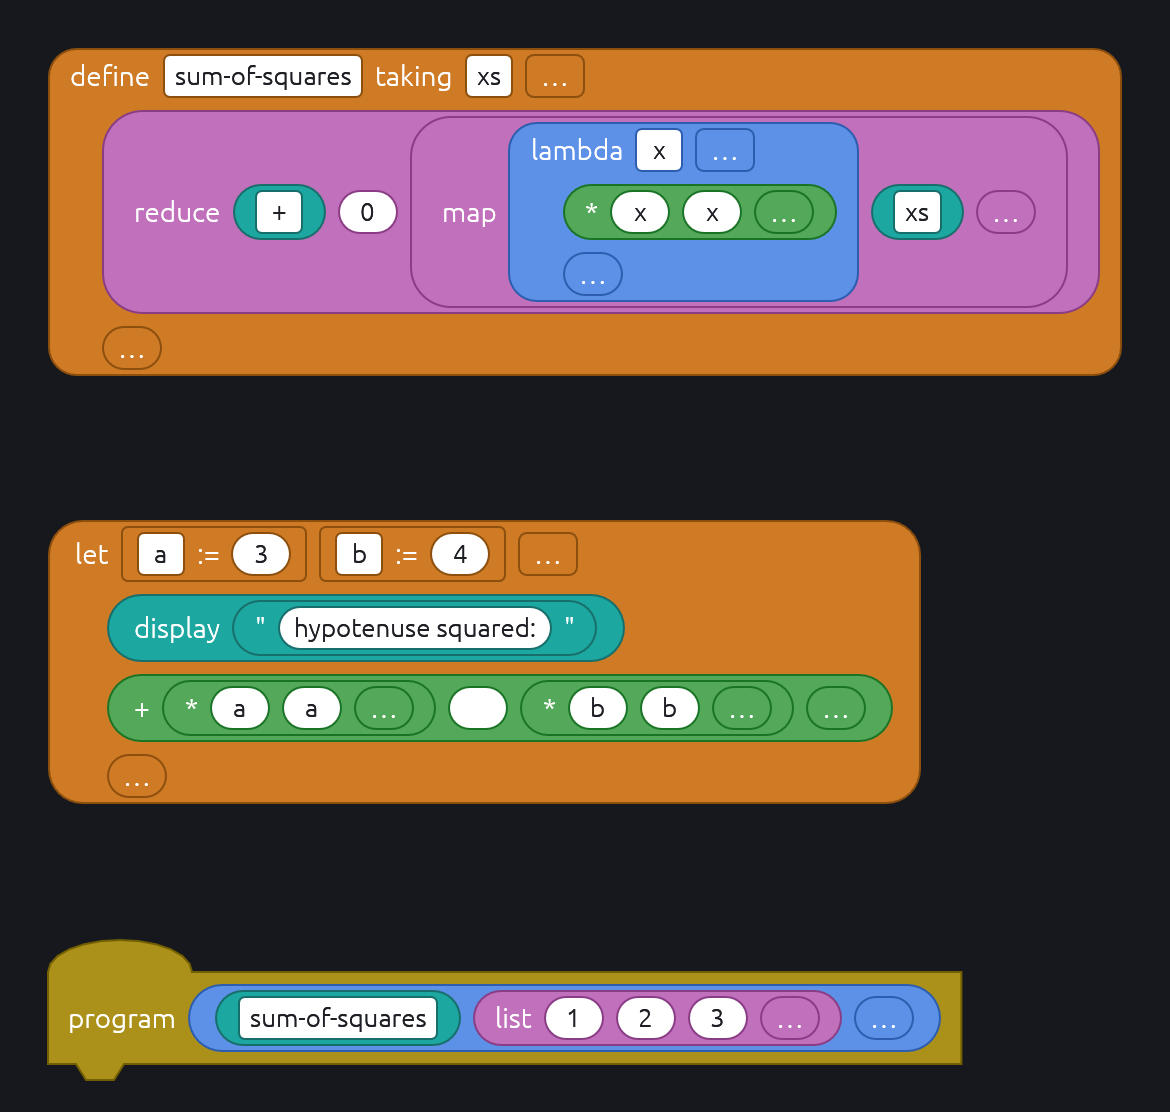
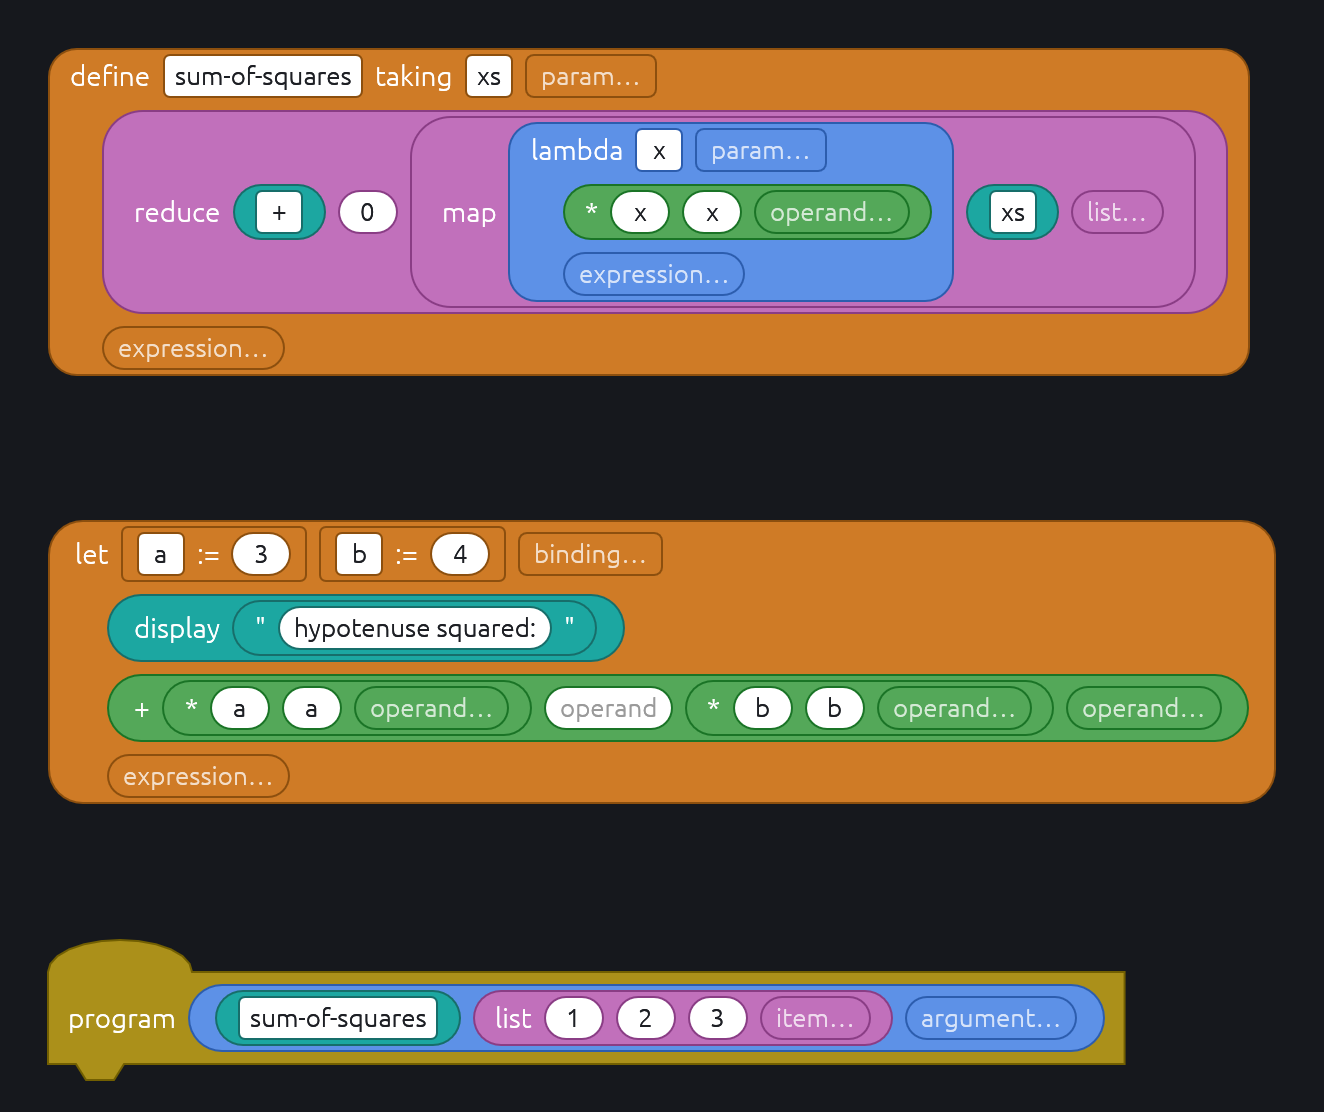
Gray hints in blank slots
A blank slot shows its input's name, or the block's hints text for it;
a list's holes share the list's hint and its empty slot shows it with an
ellipsis. Blank slots are sized to fit their hint.

Claude-Session: https://claude.ai/code/session_01MQzhmojUrrEnZEeBToTXNe

diff --git a/crates/block-parse-gui/src/layout.rs b/crates/block-parse-gui/src/layout.rs
@@ -2,7 +2,7 @@
 //! fake. Drawing, hit-testing and snapping all read the one scene.
 
 use block_parse::edit::Target;
-use block_parse::language::{BlockDef, BlockKind, BlockLayout, LiteralKind, Part, Shape};
+use block_parse::language::{BlockDef, BlockKind, BlockLayout, ListDef, LiteralKind, Part, Shape};
 use block_parse::program::{Block, BlockId, Input, Program, Stack};
 use block_parse::Language;
 use egui::{Pos2, Rect, Vec2, pos2, vec2};
@@ -33,6 +33,11 @@ const PALETTE_MARGIN: f32 = 14.0;
 const PALETTE_GAP: f32 = 10.0;
 const PALETTE_HEADING: f32 = 28.0;
 const GRID_GAP: f32 = 24.0;
+
+/// What a list's empty slot shows.
+pub fn append_text(hint: &str) -> String {
+    format!("{hint}…")
+}
 
 /// Canvas units.
 pub trait Measure {
@@ -109,6 +114,8 @@ pub struct PlacedSlot {
     /// The index in a list; its length for the empty slot after the items.
     pub item: Option<usize>,
     pub ty: String,
+    /// Drawn in gray while the slot is blank.
+    pub hint: String,
     pub rect: Rect,
     pub shape: Shape,
     /// The owning block's, for empty slots and edges.
@@ -456,7 +463,7 @@ impl Layout<'_> {
                     continue;
                 }
                 Part::Input(_) => self.item(block, part).into_iter().collect(),
-                Part::List(list) => self.list(block, &list.name, &list.ty),
+                Part::List(list) => self.list(block, list),
                 Part::Branch(_) => continue,
             };
             if inputs < inline {
@@ -574,7 +581,7 @@ impl Layout<'_> {
                 y += height;
                 after_branch = true;
             } else if let Part::List(list) = part {
-                row.extend(self.list(block, &list.name, &list.ty));
+                row.extend(self.list(block, list));
                 after_branch = false;
             } else if let Some(item) = self.item(block, part) {
                 row.push(item);
@@ -608,31 +615,41 @@ impl Layout<'_> {
                 width: self.measure.text_width(text, Font::Label),
                 text: text.clone(),
             }),
-            Part::Input(input) => Some(self.slot(block, &input.name, &input.ty, None, block.inputs.get(&input.name))),
+            Part::Input(input) => Some(self.slot(
+                block,
+                (&input.name, &input.ty, &input.hint),
+                None,
+                block.inputs.get(&input.name),
+            )),
             Part::List(_) | Part::Branch(_) => None,
         }
     }
 
     /// The list's items, then the empty slot that appends to it.
-    fn list(&self, block: &Block, name: &str, ty: &str) -> Vec<Item> {
-        let stored = block.lists.get(name).map(Vec::as_slice).unwrap_or(&[]);
+    fn list(&self, block: &Block, list: &ListDef) -> Vec<Item> {
+        let stored = block.lists.get(&list.name).map(Vec::as_slice).unwrap_or(&[]);
+        let names = (list.name.as_str(), list.ty.as_str(), list.hint.as_str());
         let mut items: Vec<Item> = stored
             .iter()
             .enumerate()
-            .map(|(index, input)| self.slot(block, name, ty, Some(index), Some(input)))
+            .map(|(index, input)| self.slot(block, names, Some(index), Some(input)))
             .collect();
+        let width = self.measure.text_width(&append_text(&list.hint), Font::Literal) + 16.0;
         items.push(Item::Slot {
-            input: name.to_owned(),
+            input: list.name.clone(),
             item: Some(stored.len()),
-            ty: ty.to_owned(),
-            shape: self.language.ty(ty).map_or(Shape::Round, |ty| ty.shape),
-            size: vec2(APPEND_WIDTH, SLOT_HEIGHT),
+            ty: list.ty.clone(),
+            hint: list.hint.clone(),
+            shape: self.language.ty(&list.ty).map_or(Shape::Round, |ty| ty.shape),
+            size: vec2(width.max(APPEND_WIDTH), SLOT_HEIGHT),
             content: LaidContent::Append,
         });
         items
     }
 
-    fn slot(&self, block: &Block, name: &str, ty_name: &str, item: Option<usize>, stored: Option<&Input>) -> Item {
+    /// `names` is the input's name, type and hint.
+    fn slot(&self, block: &Block, names: (&str, &str, &str), item: Option<usize>, stored: Option<&Input>) -> Item {
+        let (name, ty_name, hint) = names;
         let ty = self.language.ty(ty_name);
         let shape = ty.map_or(Shape::Round, |ty| ty.shape);
         let kind = ty.map_or(LiteralKind::None, |ty| ty.literal.clone());
@@ -646,6 +663,7 @@ impl Layout<'_> {
                 input: name.to_owned(),
                 item,
                 ty: ty_name.to_owned(),
+                hint: hint.to_owned(),
                 shape,
                 size: laid.size,
                 content: LaidContent::Plugged(Box::new(laid)),
@@ -655,10 +673,11 @@ impl Layout<'_> {
         let text = stored
             .and_then(|stored| stored.literal.clone())
             .unwrap_or_default();
-        let text_width = self.measure.text_width(&text, Font::Literal);
+        let shown = if text.is_empty() { hint } else { &text };
+        let text_width = self.measure.text_width(shown, Font::Literal);
         let width = match (&kind, shape) {
-            (LiteralKind::None, Shape::Hexagon) => 40.0,
-            (LiteralKind::None, _) => 32.0,
+            (LiteralKind::None, Shape::Hexagon) => (text_width + SLOT_HEIGHT + 4.0).max(40.0),
+            (LiteralKind::None, _) => (text_width + 16.0).max(32.0),
             (LiteralKind::Bool, _) => 38.0,
             (LiteralKind::Choice(_), _) => text_width + 30.0,
             (_, Shape::Hexagon) => (text_width + SLOT_HEIGHT + 4.0).max(40.0),
@@ -680,6 +699,7 @@ impl Layout<'_> {
             input: name.to_owned(),
             item,
             ty: ty_name.to_owned(),
+            hint: hint.to_owned(),
             shape,
             size: vec2(width, SLOT_HEIGHT),
             content,
@@ -707,6 +727,7 @@ struct Laid {
 struct LaidSlot {
     input: String,
     item: Option<usize>,
+    hint: String,
     ty: String,
     rect: Rect,
     shape: Shape,
@@ -739,6 +760,7 @@ enum Item {
         input: String,
         item: Option<usize>,
         ty: String,
+        hint: String,
         shape: Shape,
         size: Vec2,
         content: LaidContent,
@@ -795,6 +817,7 @@ impl Laid {
                     input,
                     item,
                     ty,
+                    hint,
                     shape,
                     content,
                     ..
@@ -802,6 +825,7 @@ impl Laid {
                     self.slots.push(LaidSlot {
                         input,
                         item,
+                        hint,
                         ty,
                         rect: Rect::from_min_size(pos2(x, center - size.y / 2.0), size),
                         shape,
@@ -911,6 +935,7 @@ fn place(laid: &Laid, origin: Pos2, depth: u16, scene: &mut Scene) {
             input: slot.input.clone(),
             item: slot.item,
             ty: slot.ty.clone(),
+            hint: slot.hint.clone(),
             rect: slot_rect,
             shape: slot.shape,
             swatch: laid.swatch,
@@ -1127,6 +1152,22 @@ mod tests {
         assert_eq!(add.slots[3].content, SlotContent::Append);
         assert!(add.slots.windows(2).all(|pair| pair[0].rect.max.x < pair[1].rect.min.x), "inline");
         assert!(!add.slots[0].is_field(), "list items are not edited in place yet");
+    }
+
+    #[test]
+    fn a_blank_slot_is_sized_for_its_hint() {
+        let language = scheme();
+        let (mut program, ids) = with_stack(&language, &["add"]);
+        let lists = &mut program.find_mut(ids[0]).unwrap().lists;
+        lists.insert("args".into(), vec![literal("1"), Default::default()]);
+        let scene = scene_of(&language, &program);
+        let add = placed(&scene, ids[0]);
+
+        assert!(add.slots.iter().all(|slot| slot.hint == "operand"));
+        let width = |index: usize| add.slots[index].rect.width();
+        assert!((width(1) - (7.0 * 7.0 + 16.0)).abs() < 1e-3, "the hole fits `operand`");
+        assert!(width(0) < width(1), "a filled slot fits its text");
+        assert!((width(2) - (7.0 * 8.0 + 16.0)).abs() < 1e-3, "the empty slot fits `operand…`");
     }
 
     #[test]

diff --git a/crates/block-parse/src/language.rs b/crates/block-parse/src/language.rs
@@ -91,6 +91,10 @@ pub struct BlockConfig {
     pub spec: String,
     #[serde(default)]
     pub layout: BlockLayout,
+    /// Shown in gray in a blank slot, by input or list name; the name itself
+    /// otherwise. Free text.
+    #[serde(default)]
+    pub hints: BTreeMap<String, String>,
     #[serde(default)]
     pub tags: Vec<String>,
     #[serde(default)]
@@ -269,6 +273,8 @@ pub struct InputDef {
     /// Source text, already validated: the spec's default, else the literal
     /// kind's blank. `None` only for types that take no literal.
     pub default: Option<String>,
+    /// For a blank slot.
+    pub hint: String,
 }
 
 /// Any number of inputs of one type under one name. Starts empty: a list
@@ -279,6 +285,8 @@ pub struct ListDef {
     pub ty: String,
     /// 0 for `*`, 1 for `+`.
     pub min: usize,
+    /// For each blank item and the empty slot.
+    pub hint: String,
 }
 
 #[derive(Debug)]
@@ -606,7 +614,8 @@ impl LanguageConfig {
                                 Arity::Any => 0,
                                 Arity::AtLeastOne => 1,
                             };
-                            parts.push(Part::List(ListDef { name, ty, min }));
+                            let hint = config.hints.get(&name).cloned().unwrap_or_else(|| name.clone());
+                            parts.push(Part::List(ListDef { name, ty, min, hint }));
                             continue;
                         }
                         let default = match types.get(&ty) {
@@ -631,8 +640,19 @@ impl LanguageConfig {
                                 }
                             },
                         };
-                        parts.push(Part::Input(InputDef { name, ty, default }));
+                        let hint = config.hints.get(&name).cloned().unwrap_or_else(|| name.clone());
+                        parts.push(Part::Input(InputDef { name, ty, default, hint }));
                     }
+                }
+            }
+
+            for name in config.hints.keys() {
+                if !parts.iter().any(|part| match part {
+                    Part::Input(input) => &input.name == name,
+                    Part::List(list) => &list.name == name,
+                    Part::Label(_) | Part::Branch(_) => false,
+                }) {
+                    problem(at, format!("hint for `{name}`, which is no input or list"));
                 }
             }
 
@@ -816,6 +836,26 @@ mod tests {
         assert_eq!(add.list("more").map(|list| list.min), Some(1));
         assert_eq!(add.layout, BlockLayout::Body(1));
         assert_eq!(language.block("if").unwrap().layout, BlockLayout::Inline);
+    }
+
+    #[test]
+    fn hints_default_to_the_input_name() {
+        let language = compile(&MINIMAL.replace(
+            r#"spec: "{a:number=1} + {b:number}""#,
+            r#"spec: "{a:number=1} + {b:number} {rest:number*}", hints: {"b": "a number", "rest": "operand"}"#,
+        ))
+        .unwrap();
+        let add = language.block("add").unwrap();
+        assert_eq!(add.input("a").unwrap().hint, "a");
+        assert_eq!(add.input("b").unwrap().hint, "a number");
+        assert_eq!(add.list("rest").unwrap().hint, "operand");
+
+        let problems = compile(&MINIMAL.replace(
+            r#"spec: "{a:number=1} + {b:number}""#,
+            r#"spec: "{a:number=1} + {b:number}", hints: {"c": "nothing"}"#,
+        ))
+        .unwrap_err();
+        assert!(problems[0].contains("`c`"), "{problems:#?}");
     }
 
     #[test]

diff --git a/crates/block-parse-gui/src/paint.rs b/crates/block-parse-gui/src/paint.rs
@@ -12,7 +12,7 @@ use egui::{Align2, Color32, CornerRadius, FontId, Galley, Painter, Pos2, Rect, S
 
 use crate::bubble::{self, Bubble};
 use crate::interact::SnapMark;
-use crate::layout::{Form, LABEL_SIZE, LITERAL_SIZE, PlacedBlock, PlacedSlot, Scene, Section, SlotContent};
+use crate::layout::{Form, LABEL_SIZE, LITERAL_SIZE, append_text, PlacedBlock, PlacedSlot, Scene, Section, SlotContent};
 use crate::shape::{self, TopEdge};
 use crate::theme::Theme;
 
@@ -267,12 +267,12 @@ fn paint_slot(painter: &Painter, slot: &PlacedSlot, t: Transform, theme: &Theme,
         SlotContent::Plugged(_) => return,
         SlotContent::Empty => {
             fill(painter, slot.shape, rect, rect.height(), slot.swatch.shadow, edge, t.zoom);
+            hint(painter, rect, &slot.hint, slot.swatch.ink.gamma_multiply(0.6), t.zoom);
             return;
         }
         SlotContent::Append => {
             outline(painter, slot.shape, rect.shrink(edge.width), rect.height(), edge, t.zoom);
-            let font = FontId::proportional(LABEL_SIZE * t.zoom);
-            painter.text(rect.center(), Align2::CENTER_CENTER, "…", font, slot.swatch.ink);
+            hint(painter, rect, &append_text(&slot.hint), slot.swatch.ink.gamma_multiply(0.75), t.zoom);
             return;
         }
         SlotContent::Literal { kind, text, error } => (kind, text, error),
@@ -286,6 +286,11 @@ fn paint_slot(painter: &Painter, slot: &PlacedSlot, t: Transform, theme: &Theme,
     fill(painter, slot.shape, rect, rect.height(), background, edge, t.zoom);
     if error.is_some() {
         outline(painter, slot.shape, rect, rect.height(), Stroke::new(2.0 * t.zoom, theme.error), t.zoom);
+    }
+    // Under a live field too: the field is transparent and draws no hint.
+    if text.is_empty() && !matches!(kind, LiteralKind::Bool | LiteralKind::Choice(_)) {
+        hint(painter, rect, &slot.hint, theme.placeholder, t.zoom);
+        return;
     }
     if live && slot.is_field() && !matches!(kind, LiteralKind::Choice(_)) {
         return;
@@ -316,6 +321,11 @@ fn paint_slot(painter: &Painter, slot: &PlacedSlot, t: Transform, theme: &Theme,
             painter.text(rect.center(), Align2::CENTER_CENTER, text, font, theme.literal_ink);
         }
     }
+}
+
+fn hint(painter: &Painter, rect: Rect, text: &str, color: Color32, zoom: f32) {
+    let font = FontId::proportional(LITERAL_SIZE * zoom);
+    painter.text(rect.center(), Align2::CENTER_CENTER, text, font, color);
 }
 
 /// Screen-space convex pieces as one mesh, so shared edges leave no seams.

diff --git a/crates/block-parse-gui/src/theme.rs b/crates/block-parse-gui/src/theme.rs
@@ -28,6 +28,8 @@ pub struct Theme {
     pub warning: Color32,
     pub literal_fill: Color32,
     pub literal_ink: Color32,
+    /// A blank field's hint.
+    pub placeholder: Color32,
 }
 
 impl Default for Theme {
@@ -50,6 +52,7 @@ impl Default for Theme {
             warning: Color32::from_rgb(0xf5, 0xa5, 0x24),
             literal_fill: Color32::WHITE,
             literal_ink: Color32::from_rgb(0x1d, 0x1f, 0x24),
+            placeholder: Color32::from_gray(0x9a),
         }
     }
 }

diff --git a/documentation/03-variadic.md b/documentation/03-variadic.md
@@ -124,8 +124,21 @@ below and its bottom corners cut at the same angle. Both stay convex. The ends
 stop growing at `MAX_END` (40 units), so a one-row block holding a tall one
 does not swell into a huge pill.
 
-A list's empty slot is drawn as an outline in the type's shape with `…`
-inside.
+## Hints
+
+A blank slot shows a hint in gray: the input's name, or free text from the
+block's `hints`, keyed by input or list name:
+
+```ron
+(id: "add", kind: Reporter("datum"), spec: "+ {args:datum*}", hints: {"args": "operand"}),
+```
+
+A slot is blank when it holds no reporter and, for a typed literal, no text;
+checkboxes and choices are never blank. Every hole in a list shows the list's
+hint, and its empty slot shows it followed by `…`, drawn as an outline in the
+type's shape. A blank slot is sized to fit its hint, so it does not shrink to
+nothing. The hint is painted under a live field rather than as egui's hint
+text, which forces its own color.
 
 ![Every block of scheme.ron](images/03-scheme-grid.png)
 

diff --git a/AGENTS.md b/AGENTS.md
@@ -15,7 +15,9 @@ block editor in `~/rust/jellycell/src/coder/`, which is one hard-coded case.
     and `{args:datum*}` (or `+`, at least one) a list of inputs. A block's
     `layout` is `Inline` or `Body(n)`: the first `n` inputs on the first row,
     later ones and later lists' items on indented rows of their own
-    (`documentation/03-variadic.md`). Lists are laid out and drawn, but `edit`,
+    (`documentation/03-variadic.md`). A blank slot shows its input's name in
+    gray, or the block's `hints` text for it; a list's empty slot shows it
+    with `…`. Lists are laid out and drawn, but `edit`,
     the AST and the editor's fields and drops do not handle them yet.
     `file.extension` names the language's program files (RON inside,
     whatever the extension) so consumers can bind file types. No types are
